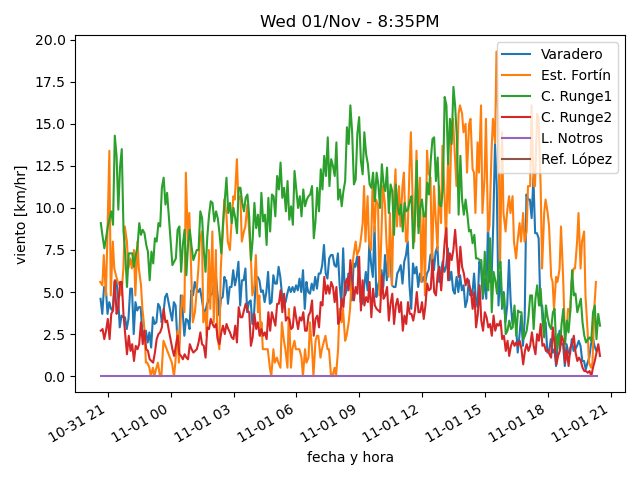
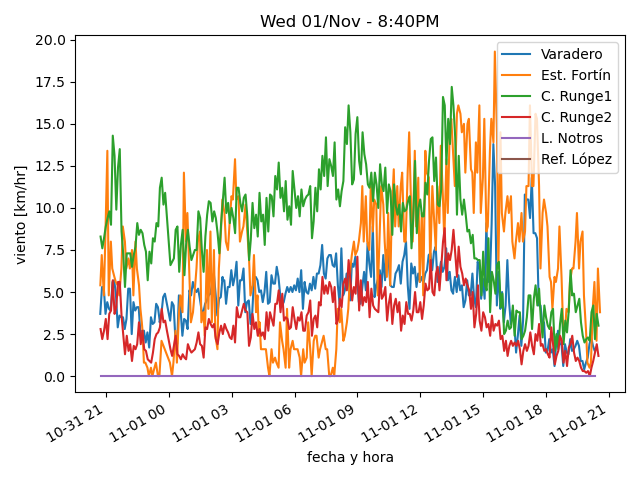
actualiza datos

diff --git a/estaciones/estacion2.html b/estaciones/estacion2.html
@@ -18,7 +18,7 @@
     </tr>
     <tr>
      <td class="stats_data">
-      8:18PM
+      8:34PM
      </td>
     </tr>
     <tr>
@@ -28,22 +28,22 @@
     </tr>
     <tr>
      <td class="stats_data">
-      1.8⁰C
+      1.6⁰C
      </td>
     </tr>
     <tr>
      <td class="stats_data">
-      88.0%
+      87.0%
      </td>
     </tr>
     <tr>
      <td class="stats_data">
-      1025.06hPa
+      1024.72hPa
      </td>
     </tr>
     <tr>
      <td class="stats_data">
-      3.9/5.6 km/hr SE
+      1.6/3.8 km/hr ESE
      </td>
     </tr>
     <tr>
